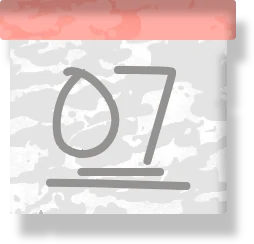
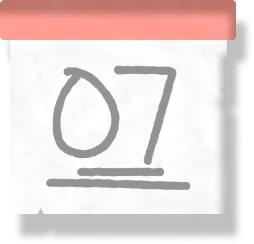
fix(recap): frame textures at the design's scale, re-exported from Figma
The frames' texture is a Figma pattern fill (a 111x102 tile at 1x); the
old exports had rendered it several times too large and too strong, so the
frames read as blotchy camouflage. Every frame, the clock, the calendar,
the shelf and the video frame are now Figma's own 2x renders with the
photos taken out (photos still sit on top in their openings), which also
brings back the mitred corners and bevels. The purple frame's bows, gem
and feet are part of its render now, and the shelf and video frame are
images instead of a coloured box with an SVG texture. Where a render's
bounds changed (shadows, ornaments) the box and the phone layout's photo
openings are recomputed so every photo stays where it was.
The hanging frame is still the old export (to follow).

diff --git a/src/components/mobile/recap-mobile.tsx b/src/components/mobile/recap-mobile.tsx
@@ -164,58 +164,16 @@ const RecapMobile = () => {
         />
 
         <FramedPhoto
-          className="left-[3.31vw] top-[115.07vw] h-[34.32vw] w-[22.9vw]"
-          frame={{ src: "/assets/recap/purple-frame.webp", size: [289, 371] }}
+          className="left-[2.06vw] top-[114.05vw] h-[35.27vw] w-[24.21vw]"
+          frame={{ src: "/assets/recap/purple-frame.webp", size: [306, 381] }}
           photo={{
             src: "/assets/recap/photos/purple.jpg",
             alt: "Two hackers demoing their project beside a hand-lettered sign",
             size: [570, 760],
           }}
-          aperture={[4.97, 12.99, 90.06, 77.53]}
+          aperture={[9.86, 15.53, 85.19, 75.44]}
           objectPosition="70% 91%"
           rounded
-        />
-        <Image
-          src="/assets/recap/purple-frame-bow-left.webp"
-          alt=""
-          width={29}
-          height={16}
-          className="absolute left-[11.43vw] top-[117.73vw] h-[1.29vw] w-[2.05vw] rotate-[-20.76deg]"
-        />
-        <Image
-          src="/assets/recap/purple-frame-bow-right.webp"
-          alt=""
-          width={29}
-          height={16}
-          className="absolute left-[15.99vw] top-[117.73vw] h-[1.29vw] w-[2.05vw] rotate-[159.24deg]"
-        />
-        <Image
-          src="/assets/recap/purple-frame-gem-outer.webp"
-          alt=""
-          width={32}
-          height={31}
-          className="absolute left-[13.5vw] top-[115.76vw] h-[2.79vw] w-[2.52vw]"
-        />
-        <Image
-          src="/assets/recap/purple-frame-gem-inner.webp"
-          alt=""
-          width={20}
-          height={18}
-          className="absolute left-[13.98vw] top-[116.36vw] h-[1.59vw] w-[1.54vw]"
-        />
-        <Image
-          src="/assets/recap/purple-frame-foot-left.webp"
-          alt=""
-          width={34}
-          height={23}
-          className="absolute left-[12.14vw] top-[146.33vw] h-[2.11vw] w-[2.67vw]"
-        />
-        <Image
-          src="/assets/recap/purple-frame-foot-right.webp"
-          alt=""
-          width={34}
-          height={23}
-          className="absolute left-[15vw] top-[146.33vw] h-[2.11vw] w-[2.67vw]"
         />
 
         <FramedPhoto
@@ -249,9 +207,9 @@ const RecapMobile = () => {
         <Image
           src="/assets/recap/mirror.webp"
           alt=""
-          width={218}
-          height={270}
-          className="absolute left-[45.8vw] top-[149.38vw] h-[31.38vw] w-[28.36vw]"
+          width={278}
+          height={308}
+          className="absolute left-[40.7vw] top-[146.17vw] h-[35.66vw] w-[36.04vw]"
         />
         <LightboxTrigger
           photo={{
@@ -277,29 +235,27 @@ const RecapMobile = () => {
           </span>
         </LightboxTrigger>
 
-        <div className="absolute left-[8.91vw] top-[45.04vw] h-[63.55vw] w-[86.01vw] overflow-hidden rounded-[0.64vw] bg-[#f25c4e] shadow-[inset_-0.5vw_-1vw_0.64vw_0_rgba(0,0,0,0.25)]">
-          <Image
-            src="/assets/recap/video-frame-texture.svg"
-            alt=""
-            width={570}
-            height={382}
-            className="h-full w-full"
-          />
-        </div>
+        <Image
+          src="/assets/recap/video-frame.webp"
+          alt=""
+          width={568}
+          height={389}
+          className="absolute left-[6.92vw] top-[42.27vw] h-[66.32vw] w-[88.0vw]"
+        />
         <RecapVideo className="absolute left-[14.29vw] top-[49.97vw] h-[53.69vw] w-[75.23vw]" />
 
         <FramedPhoto
-          className="left-[63.61vw] top-[117.18vw] h-[24.67vw] w-[30.79vw]"
+          className="left-[63.54vw] top-[116.85vw] h-[25.01vw] w-[32.12vw]"
           frame={{
             src: "/assets/recap/brown-photo-frame.webp",
-            size: [330, 255],
+            size: [345, 260],
           }}
           photo={{
             src: "/assets/recap/photos/brown.jpg",
             alt: "A team gathered around a laptop at a table",
             size: [681, 454],
           }}
-          aperture={[13.89, 17.91, 66.44, 68.48]}
+          aperture={[13.53, 18.99, 63.69, 67.55]}
           objectPosition="50% 40%"
         />
 

diff --git a/src/sections/recap.tsx b/src/sections/recap.tsx
@@ -114,62 +114,18 @@ const Recap = () => {
       <Image
         src="/assets/recap/purple-frame.webp"
         alt=""
-        width={289}
-        height={371}
-        className="absolute left-[1.57vw] top-[41.49vw] h-[24.25vw] w-[18.91vw]"
-      />
-      <Image
-        src="/assets/recap/purple-frame-bow-left.webp"
-        alt=""
-        width={29}
-        height={16}
-        className="absolute left-[8.28vw] top-[43.37vw] h-[0.91vw] w-[1.69vw] rotate-[-20.76deg]"
-      />
-      <Image
-        src="/assets/recap/purple-frame-bow-right.webp"
-        alt=""
-        width={29}
-        height={16}
-        className="absolute left-[12.04vw] top-[43.37vw] h-[0.91vw] w-[1.69vw] rotate-[159.24deg]"
-      />
-      <Image
-        src="/assets/recap/purple-frame-gem-outer.webp"
-        alt=""
-        width={32}
-        height={31}
-        className="absolute left-[9.99vw] top-[41.98vw] h-[1.97vw] w-[2.08vw]"
-      />
-      <Image
-        src="/assets/recap/purple-frame-gem-inner.webp"
-        alt=""
-        width={20}
-        height={18}
-        className="absolute left-[10.38vw] top-[42.4vw] h-[1.12vw] w-[1.27vw]"
-      />
-      <Image
-        src="/assets/recap/purple-frame-foot-left.webp"
-        alt=""
-        width={34}
-        height={23}
-        className="absolute left-[8.87vw] top-[63.58vw] h-[1.49vw] w-[2.2vw]"
-      />
-      <Image
-        src="/assets/recap/purple-frame-foot-right.webp"
-        alt=""
-        width={34}
-        height={23}
-        className="absolute left-[11.23vw] top-[63.58vw] h-[1.49vw] w-[2.2vw]"
+        width={306}
+        height={381}
+        className="absolute left-[0.54vw] top-[40.77vw] h-[24.92vw] w-[19.99vw]"
       />
 
-      <div className="absolute left-[60.6vw] top-[32.53vw] h-[2.16vw] w-[32.33vw] overflow-hidden rounded-[0.26vw] bg-[#7b471c]">
-        <Image
-          src="/assets/recap/shelf-wood.svg"
-          alt=""
-          width={530}
-          height={71}
-          className="h-full w-full"
-        />
-      </div>
+      <Image
+        src="/assets/recap/shelf.webp"
+        alt=""
+        width={494}
+        height={33}
+        className="absolute left-[60.57vw] top-[32.54vw] h-[2.16vw] w-[32.27vw]"
+      />
 
       <Image
         src="/assets/recap/hanging-frame.webp"
@@ -195,28 +151,26 @@ const Recap = () => {
       <Image
         src="/assets/recap/mirror.webp"
         alt=""
-        width={218}
-        height={270}
-        className="absolute left-[63.6vw] top-[40.95vw] h-[17.68vw] w-[14.29vw]"
+        width={278}
+        height={308}
+        className="absolute left-[61.03vw] top-[39.14vw] h-[20.09vw] w-[18.16vw]"
       />
 
-      <div className="absolute left-[6.02vw] top-[14.14vw] h-[24.35vw] w-[36.26vw] overflow-hidden rounded-[0.33vw] bg-[#f25c4e] shadow-[inset_-0.2vw_-0.39vw_0.26vw_0_rgba(0,0,0,0.25)]">
-        <Image
-          src="/assets/recap/video-frame-texture.svg"
-          alt=""
-          width={570}
-          height={382}
-          className="h-full w-full"
-        />
-      </div>
+      <Image
+        src="/assets/recap/video-frame.webp"
+        alt=""
+        width={568}
+        height={389}
+        className="absolute left-[5.18vw] top-[13.08vw] h-[25.41vw] w-[37.1vw]"
+      />
       <RecapVideo className="absolute left-[8.29vw] top-[16.03vw] h-[20.57vw] w-[31.71vw]" />
 
       <Image
         src="/assets/recap/brown-photo-frame.webp"
         alt=""
-        width={330}
-        height={255}
-        className="absolute left-[66.3vw] top-[15.84vw] h-[16.69vw] w-[21.6vw]"
+        width={345}
+        height={260}
+        className="absolute left-[66.25vw] top-[15.62vw] h-[16.92vw] w-[22.53vw]"
       />
 
       <svg width="0" height="0" className="absolute" aria-hidden>
